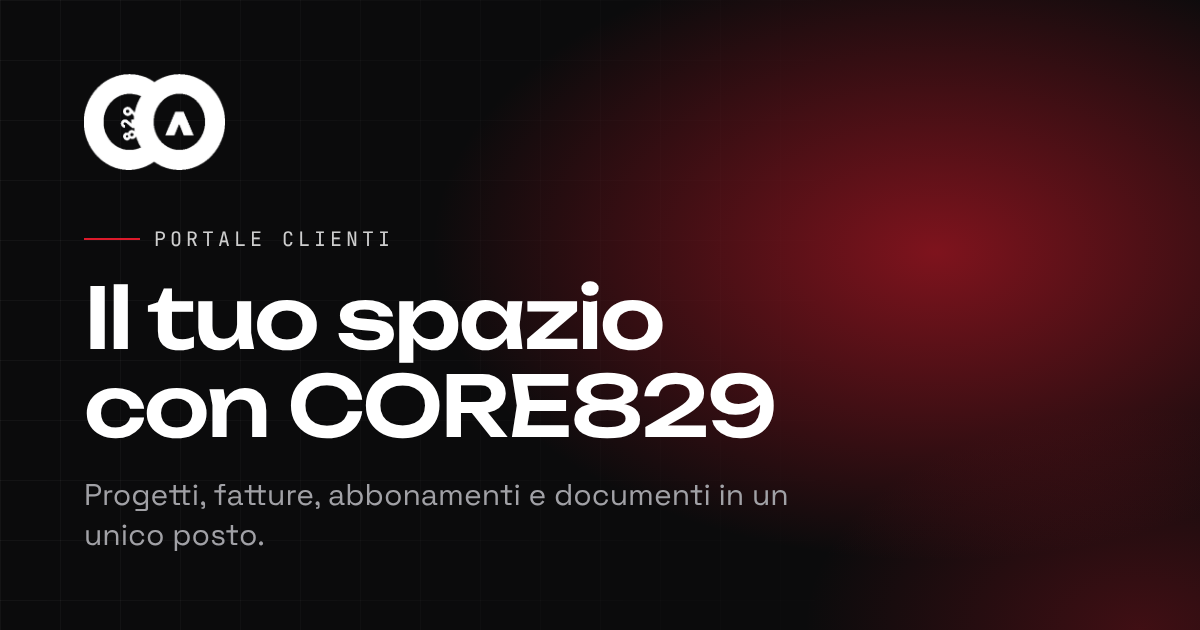
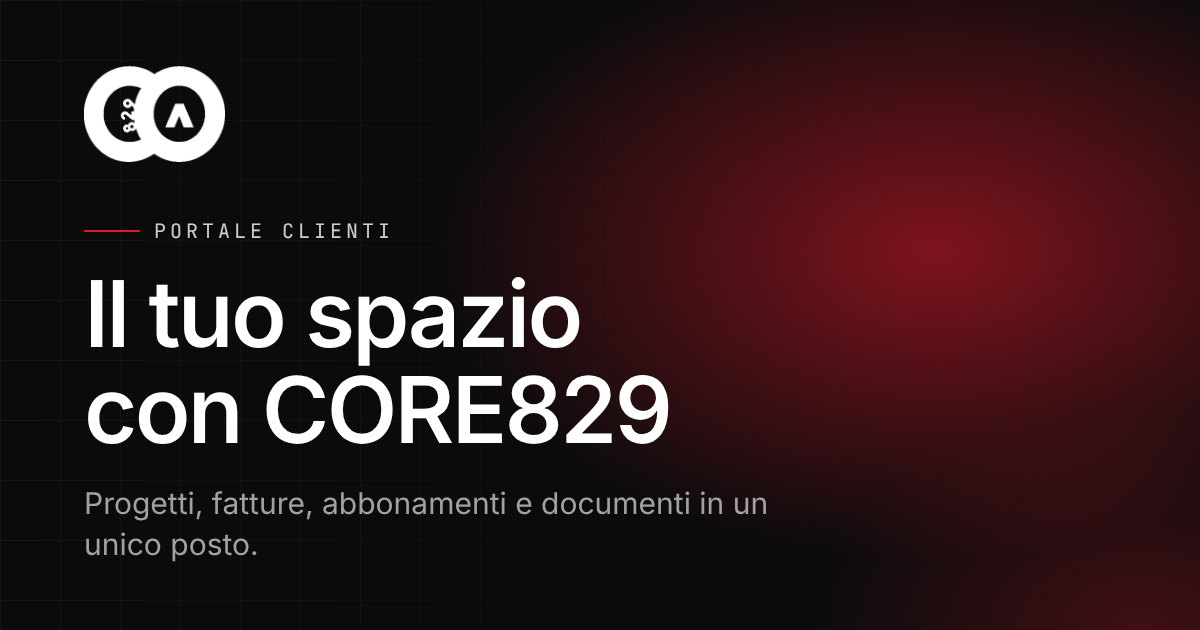
font: stack di Andromedia Web (Saans se installato > Inter + JetBrains Mono), titoli peso 560; immagine di anteprima aggiornata
Claude-Session: https://claude.ai/code/session_019bEdNTWamYzRe1fmR1LNxk

diff --git a/src/app/globals.css b/src/app/globals.css
@@ -4,13 +4,37 @@
 
 @custom-variant dark (&:is(.dark *));
 
+/* Saans (Displaay) e' un font commerciale: se e' installato sul dispositivo viene usato direttamente,
+   altrimenti si usa Inter (self-hosted da next/font). Configurazione identica ad Andromedia Web. */
+@font-face {
+  font-family: "Saans";
+  src: local("Saans"), local("Saans Regular"), local("Saans-Regular");
+  font-weight: 300 800;
+  font-style: normal;
+  font-display: swap;
+}
+@font-face {
+  font-family: "Saans Display";
+  src: local("Saans Display"), local("SaansDisplay-Regular"), local("Saans Display Regular"), local("Saans");
+  font-weight: 300 800;
+  font-style: normal;
+  font-display: swap;
+}
+@font-face {
+  font-family: "Saans Text";
+  src: local("Saans Text"), local("SaansText-Regular"), local("Saans Text Regular"), local("Saans");
+  font-weight: 300 800;
+  font-style: normal;
+  font-display: swap;
+}
+
 @theme inline {
   --color-background: var(--background);
   --color-foreground: var(--foreground);
-  /* Brand CORE829: Space Grotesk (testo), Unbounded (titoli), JetBrains Mono (etichette tecniche). */
-  --font-sans: var(--font-space), system-ui, -apple-system, "Segoe UI", sans-serif;
-  --font-display: var(--font-unbounded), var(--font-space), system-ui, sans-serif;
-  --font-mono: var(--font-jetbrains), ui-monospace, "SFMono-Regular", monospace;
+  /* Stack identico ad Andromedia Web: Saans (se installato) -> Inter -> sistema; JetBrains Mono per i dettagli tecnici. */
+  --font-sans: "Saans Text", "Saans", var(--font-inter), ui-sans-serif, system-ui, sans-serif;
+  --font-display: "Saans Display", "Saans", var(--font-inter), ui-sans-serif, system-ui, sans-serif;
+  --font-mono: var(--font-jetbrains-mono), ui-monospace, monospace;
   --font-heading: var(--font-display);
   --color-brand: var(--brand-red);
   --color-brand-deep: var(--brand-red-deep);
@@ -150,8 +174,8 @@
   h3,
   h4 {
     font-family: var(--font-display);
-    font-weight: 500;
-    letter-spacing: -0.025em;
+    font-weight: 560; /* come Andromedia Web */
+    letter-spacing: -0.03em;
     overflow-wrap: break-word;
     text-wrap: balance;
   }
@@ -165,13 +189,13 @@
   }
 }
 
-/* Tipografia del sito core829.net: titoli sempre Unbounded peso 500 (anche dove un componente chiede "semibold"),
+/* Tipografia Andromedia Web / core829.net: titoli sempre a peso 560 (anche dove un componente chiede "semibold"),
    testo con interlinea 1.6. Fuori da @layer di proposito: prevale sulle classi di utilita'. */
 h1,
 h2,
 h3,
 h4 {
-  font-weight: 500;
+  font-weight: 560;
 }
 body {
   line-height: 1.6;

diff --git a/src/app/layout.tsx b/src/app/layout.tsx
@@ -1,12 +1,22 @@
 import type { Metadata, Viewport } from "next";
-import { JetBrains_Mono, Space_Grotesk, Unbounded } from "next/font/google";
+import { Inter, JetBrains_Mono } from "next/font/google";
 import { canonicalAppUrl } from "@/lib/appUrl";
 import "./globals.css";
 
-// Font del brand CORE829 (gli stessi di core829.net), serviti dal nostro dominio da next/font.
-const spaceGrotesk = Space_Grotesk({ variable: "--font-space", subsets: ["latin"] });
-const unbounded = Unbounded({ variable: "--font-unbounded", subsets: ["latin"] });
-const jetbrainsMono = JetBrains_Mono({ variable: "--font-jetbrains", subsets: ["latin"] });
+// Stesso stack di Andromedia Web (repo andromediaweb.it) e del sito core829.net: "Saans" se installato sul
+// dispositivo, altrimenti Inter self-hosted da next/font (font variabile: normale, bold e ogni peso intermedio),
+// piu' JetBrains Mono per i dettagli tecnici. I token --font-* sono in globals.css.
+const inter = Inter({
+  variable: "--font-inter",
+  subsets: ["latin"],
+  display: "swap",
+});
+
+const jetbrainsMono = JetBrains_Mono({
+  variable: "--font-jetbrains-mono",
+  subsets: ["latin"],
+  weight: ["400", "500"],
+});
 
 // Ogni risposta ha un nonce CSP diverso, quindi nessuna pagina puo' essere pre-generata
 // e messa in cache: tutto viene renderizzato a ogni richiesta. Il portale mostra comunque
@@ -45,7 +55,7 @@ export default function RootLayout({ children }: { children: React.ReactNode }) 
   return (
     <html
       lang="it"
-      className={`${spaceGrotesk.variable} ${unbounded.variable} ${jetbrainsMono.variable} h-full antialiased`}
+      className={`${inter.variable} ${jetbrainsMono.variable} h-full antialiased`}
     >
       <body className="min-h-full flex flex-col">{children}</body>
     </html>

diff --git a/e2e/smoke.spec.ts b/e2e/smoke.spec.ts
@@ -18,8 +18,20 @@ test.describe("pagine pubbliche", () => {
     const csp = watchCsp(page);
     await page.goto("/");
     await expect(page.getByRole("heading", { level: 1, name: "Il tuo spazio con CORE829" })).toBeVisible();
-    const font = await page.locator("h1").evaluate((el) => getComputedStyle(el).fontFamily);
-    expect(font, "deve usare il font del brand (Unbounded), non quello di sistema").toContain("Unbounded");
+    // Stack di Andromedia Web: Saans (se installato) -> Inter. Mai il font di sistema (Times New Roman).
+    const fonts = await page.evaluate(async () => {
+      await document.fonts.ready;
+      return {
+        h1: getComputedStyle(document.querySelector("h1")!).fontFamily,
+        body: getComputedStyle(document.body).fontFamily,
+        weight: getComputedStyle(document.querySelector("h1")!).fontWeight,
+        loaded: [...document.fonts].filter((f) => f.status === "loaded").map((f) => f.family),
+      };
+    });
+    expect(fonts.h1).toContain("Inter");
+    expect(fonts.body).toContain("Inter");
+    expect(fonts.weight, "titoli a peso 560 come Andromedia Web").toBe("560");
+    expect(fonts.loaded, "Inter deve essere stato caricato davvero").toContain("Inter");
     expect(csp).toEqual([]);
   });
 

diff --git a/docs/DEPLOY.md b/docs/DEPLOY.md
@@ -62,6 +62,6 @@ Da fare **dopo** i passi di `docs/SETUP.md` (chiavi Convex Auth, variabili, prim
 - **Portale cliente** (`/c`): stesso schema, con le pagine attive scelte dall'admin nella "Pagina cliente" (un blocco disattivato nasconde la pagina).
 - **Metriche** (definizioni in `convex/lib/metrics.ts`, uguali per admin e cliente): incassato = fatture pagate (per data di pagamento);
   da incassare = inviate + scadute (mai bozze o annullate); MRR = abbonamenti attivi, gli annuali divisi per 12.
-- **Brand**: font Unbounded / Space Grotesk / JetBrains Mono, rosso `#dd1a2b`, logo e sfondo "neural" della hero di core829.net
+- **Brand**: font identici ad Andromedia Web e al sito (Saans se installato sul dispositivo, altrimenti Inter self-hosted; JetBrains Mono per le etichette; titoli a peso 560), rosso `#dd1a2b`, logo e sfondo "neural" della hero di core829.net
   (`src/components/brand/NeuralNoise.tsx` e' una copia di `components/ui/neural-noise.tsx` del repo `core829.net-new`: tenerli allineati).
 - **Pagina iniziale** (`/`): accesso per i clienti (link personale) e contatti per chi non lo e' (modulo `core829.net/it/contatti` ed email).
